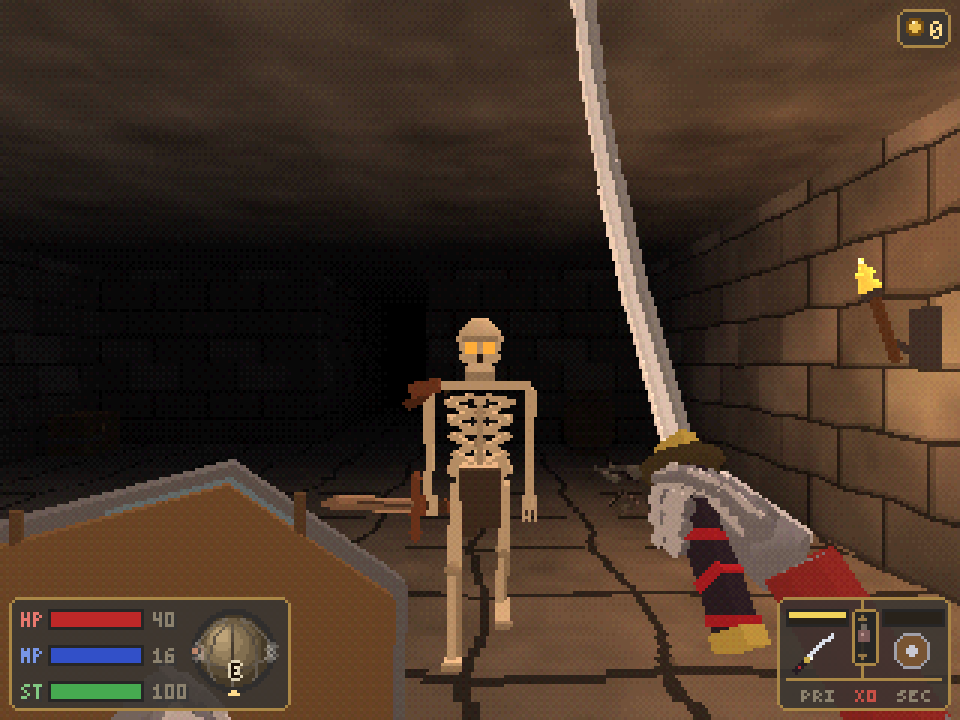
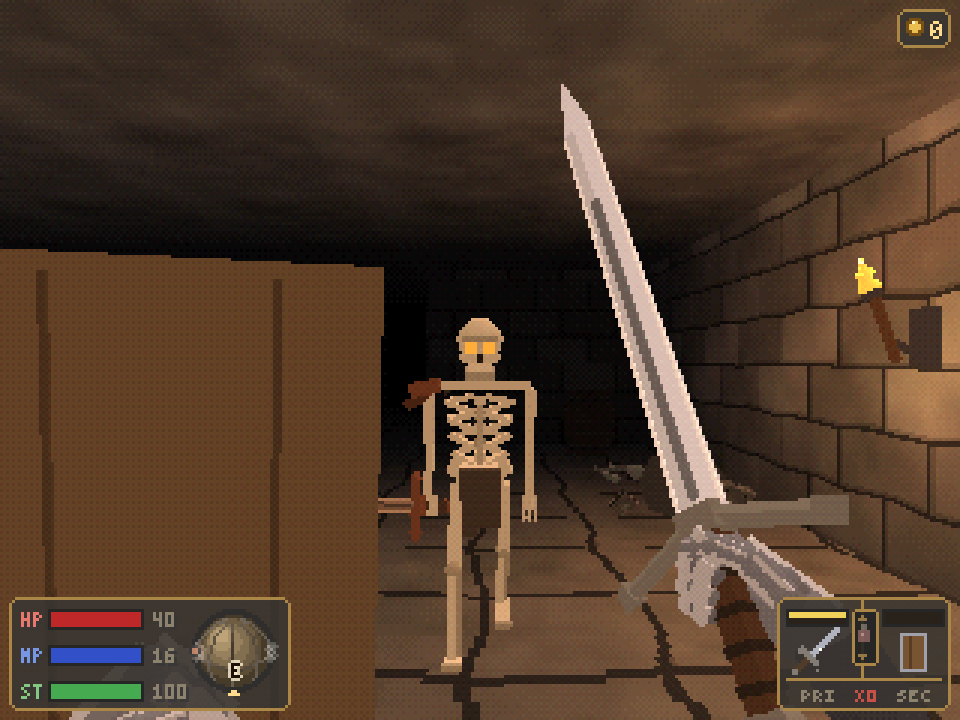
Retake every README screenshot with varied weapons and spells
Each shot now carries its own gear (`--level 10 --equip ...` in its README
command): a different weapon in most, with a readied spell or a shield
beside the one-handed ones. The Sexton's shot waits for its door to open
before walking in, as the old one no longer reached its yard; the
Belongings, sword-and-shield and Sexton alt texts follow the new shots.

diff --git a/README.md b/README.md
@@ -51,7 +51,7 @@ FromSoftware, Inc.
   </tr>
   <tr>
     <td><img src="docs/screenshots/silk.png" alt="The silk sealing the chapel's far door burning away from the bottom up, charred patches glowing at the edges, flames licking up its face"></td>
-    <td><img src="docs/screenshots/sexton.png" alt="The Ashen Sexton in its walled yard, breathing a cloud of choking grave dust at you, its health bar above"></td>
+    <td><img src="docs/screenshots/sexton.png" alt="The Ashen Sexton in its walled yard, its spade raised as grave ash bursts from the ground round it, its health bar above"></td>
   </tr>
   <tr>
     <td align="center"><sub>Flame Bolt burning the silk off the chapel door</sub></td>
@@ -67,7 +67,7 @@ FromSoftware, Inc.
   </tr>
   <tr>
     <td><img src="docs/screenshots/warden.png" alt="The Ashen Warden boss in its hall"></td>
-    <td><img src="docs/screenshots/inventory.png" alt="The Belongings screen: a katana in the Primary slot, a round shield in Secondary, worn armor, the Equipped panel and a rotating preview"></td>
+    <td><img src="docs/screenshots/inventory.png" alt="The Belongings screen: the Moonless Tachi in the Primary slot, a kite shield in Secondary, a lamellar vest and leather gloves, the Equipped panel and the stats"></td>
   </tr>
   <tr>
     <td align="center"><sub>The Ashen Warden</sub></td>
@@ -106,7 +106,7 @@ FromSoftware, Inc.
     <td align="center"><sub>A bonfire in the Root Caverns, under the bog</sub></td>
   </tr>
   <tr>
-    <td><img src="docs/screenshots/combat.png" alt="A katana in one hand and a round shield in the other, facing a bone walker"></td>
+    <td><img src="docs/screenshots/combat.png" alt="A bastard sword in iron gauntlets, a tower shield on the other arm, facing a bone walker"></td>
     <td><img src="docs/screenshots/corvane.png" alt="Corvane's shop of curved blades"></td>
   </tr>
   <tr>
@@ -463,46 +463,46 @@ uv run ashen-vault --map sunken_keep --at 15,21,180 --smoke 100 --script "wait:1
 
 The README screenshots were taken this way, each with `ASHEN_VAULT_SAVE` pointing at a fresh throwaway
 file. The title is `uv run ashen-vault --smoke 60 --shot title.png` and the village
-`uv run ashen-vault --map harrowmere --at=22,30,-60 --smoke 40 --shot village.png`; Odrin is
-`uv run ashen-vault --map harrowmere --at=28,25,-90 --level 10 --equip primary=mace --smoke 40 --script "wait:0.2 interact" --shot dialogue.png`,
+`uv run ashen-vault --map harrowmere --at=22,30,-60 --level 10 --equip primary=claymore --smoke 40 --shot village.png`; Odrin is
+`uv run ashen-vault --map harrowmere --at=28,25,-90 --level 10 --equip primary=mace,secondary=spell:mend --smoke 40 --script "wait:0.2 interact" --shot dialogue.png`,
 Belongings is
-`uv run ashen-vault --map harrowmere --at=20,44,-90 --level 6 --equip primary=katana,secondary=round_shield,body=brigandine,hands=chain_mitts --smoke 40 --script "wait:0.2 menu" --shot inventory.png`,
+`uv run ashen-vault --map harrowmere --at=20,44,-90 --level 10 --equip primary=moonless_tachi,secondary=kite_shield,body=lamellar_vest,hands=leather_gloves --smoke 40 --script "wait:0.2 menu" --shot inventory.png`,
 Corvane's shop is
 `uv run ashen-vault --map harrowmere --at=6,26,180 --level 10 --equip primary=flamberge --smoke 220 --script "forward:2 interact wait:0.3 confirm wait:0.3 confirm wait:0.3 confirm wait:0.3 confirm" --shot corvane.png`,
-the cathedral is `uv run ashen-vault --map harrowmere --at=18,6,180 --smoke 40 --shot cathedral.png`,
-the cemetery is `uv run ashen-vault --map ashen_cemetery --smoke 40 --shot cemetery.png`,
-the Mourner is `uv run ashen-vault --map ashen_cemetery --at=11,22,-90 --smoke 40 --shot mourner.png`,
+the cathedral is `uv run ashen-vault --map harrowmere --at=18,6,180 --level 10 --equip primary=moonless_tachi,secondary=spell:thunder --smoke 40 --shot cathedral.png`,
+the cemetery is `uv run ashen-vault --map ashen_cemetery --level 10 --equip primary=hatchet,secondary=spell:lumen --smoke 40 --shot cemetery.png`,
+the Mourner is `uv run ashen-vault --map ashen_cemetery --at=11,22,-90 --level 10 --equip primary=oak_cudgel,secondary=spell:venom --smoke 40 --shot mourner.png`,
 the burning silk is
-`uv run ashen-vault --map ashen_cemetery --at=12,18,-135 --smoke 90 --script "wait:0.3 cast wait:0.9" --shot silk.png`,
+`uv run ashen-vault --map ashen_cemetery --at=12,18,-135 --level 10 --equip primary=leather_whip,secondary=spell:flame --smoke 90 --script "wait:0.3 cast wait:0.9" --shot silk.png`,
 the Sexton is
-`uv run ashen-vault --map ashen_cemetery --at=10,11,-90 --smoke 222 --script "wait:0.1 interact wait:1 forward:0.6" --shot sexton.png`
-(its move is random, so take it again until it breathes its dust),
-the forge is `uv run ashen-vault --map harrowmere --at=8,18,180 --level 10 --equip primary=bastard_sword --smoke 40 --shot forge.png`,
-the Warden is `uv run ashen-vault --map sunken_keep --at=15,7,-90 --smoke 40 --shot warden.png`,
-the hollow's vine path is `uv run ashen-vault --map verdant_hollow --at=9,12,90 --smoke 40 --shot verdant_hollow.png`,
-the Bark Husk is `uv run ashen-vault --map verdant_hollow --at=26,17,-90 --smoke 60 --shot bark_husk.png`,
-the log rack is `uv run ashen-vault --map verdant_hollow --at=51,6,180 --smoke 40 --shot log_rack.png`,
+`uv run ashen-vault --map ashen_cemetery --at=10,11,-90 --level 10 --equip primary=bearded_axe,secondary=spell:ward --smoke 603 --script "wait:0.1 interact wait:2.5 forward:1.0" --shot sexton.png`
+(its move is random, so take it again until its ash bursts round it),
+the forge is `uv run ashen-vault --map harrowmere --at=8,18,180 --level 10 --equip primary=bastard_sword,secondary=spell:ward --smoke 40 --shot forge.png`,
+the Warden is `uv run ashen-vault --map sunken_keep --at=15,7,-90 --level 10 --equip primary=zweihander --smoke 40 --shot warden.png`,
+the hollow's vine path is `uv run ashen-vault --map verdant_hollow --at=9,12,90 --level 10 --equip primary=thornlash,secondary=spell:veil --smoke 40 --shot verdant_hollow.png`,
+the Bark Husk is `uv run ashen-vault --map verdant_hollow --at=26,17,-90 --level 10 --equip primary=butcher_cleaver,secondary=spell:pyre --smoke 60 --shot bark_husk.png`,
+the log rack is `uv run ashen-vault --map verdant_hollow --at=51,6,180 --level 10 --equip primary=spiked_club,secondary=buckler --smoke 40 --shot log_rack.png`,
 the flame bolt shot is
-`uv run ashen-vault --map sunken_keep --at 15,22,0 --smoke 40 --script "wait:0.3 cast" --shot flame_bolt.png`,
-the Loom Mother is `uv run ashen-vault --map verdant_hollow --at=15,7,-90 --smoke 40 --shot loom_mother.png`,
+`uv run ashen-vault --map sunken_keep --at 15,22,0 --level 10 --equip primary=ashblade,secondary=spell:flame --smoke 40 --script "wait:0.3 cast" --shot flame_bolt.png`,
+the Loom Mother is `uv run ashen-vault --map verdant_hollow --at=15,7,-90 --level 10 --equip primary=nodachi --smoke 40 --shot loom_mother.png`,
 the lift ride is
-`uv run ashen-vault --map sunken_keep --at 4,24,90 --smoke 680 --script "forward:0.15 wait:5 forward:0.6 wait:7" --shot undercroft_lift.png`,
-the Butcher is `uv run ashen-vault --map sunken_keep --at=27,7,-90 --smoke 20 --shot gallery.png`,
-the jungle trail is `uv run ashen-vault --map harrowmere --at=56,34,-90 --smoke 40 --shot jungle_trail.png`,
+`uv run ashen-vault --map sunken_keep --at 4,24,90 --level 10 --equip primary=slagbreaker --smoke 680 --script "forward:0.15 wait:5 forward:0.6 wait:7" --shot undercroft_lift.png`,
+the Butcher is `uv run ashen-vault --map sunken_keep --at=27,7,-90 --level 10 --equip primary=claymore --smoke 20 --shot gallery.png`,
+the jungle trail is `uv run ashen-vault --map harrowmere --at=56,34,-90 --level 10 --equip primary=hatchet,secondary=spell:motes --smoke 40 --shot jungle_trail.png`,
 Mossmouth is
-`uv run ashen-vault --map verdant_hollow --at=15,31,180 --equip left=spell:pyre --script "wait:0.3 cast wait:3" --smoke 120 --shot mossmouth.png`,
-the canopy is `uv run ashen-vault --map verdant_hollow --at=31,3,180 --script "look_down:0.12" --smoke 40 --shot canopy_walk.png`,
-the Root Caverns are `uv run ashen-vault --map verdant_hollow --at=6,38,-100 --smoke 25 --shot root_caverns.png`,
-the long bridge is `uv run ashen-vault --map cinderhold --at=29,52,-90 --script "look_up:0.15" --smoke 60 --shot cinderhold_bridge.png`,
-the postern ledge is `uv run ashen-vault --map cinderhold --at=28,30,180 --smoke 190 --shot postern_ledge.png`,
-the foundry is `uv run ashen-vault --map cinderhold --at=18,17,180 --smoke 40 --shot foundry.png`,
+`uv run ashen-vault --map verdant_hollow --at=15,31,180 --script "wait:0.3 cast wait:3" --level 10 --equip primary=spiked_club,secondary=spell:pyre --smoke 120 --shot mossmouth.png`,
+the canopy is `uv run ashen-vault --map verdant_hollow --at=31,3,180 --script "look_down:0.12" --level 10 --equip primary=katana,secondary=spell:motes --smoke 40 --shot canopy_walk.png`,
+the Root Caverns are `uv run ashen-vault --map verdant_hollow --at=6,38,-100 --level 10 --equip primary=great_iron_hammer --smoke 25 --shot root_caverns.png`,
+the long bridge is `uv run ashen-vault --map cinderhold --at=29,52,-90 --script "look_up:0.15" --level 10 --equip primary=ashblade,secondary=spell:thunder --smoke 60 --shot cinderhold_bridge.png`,
+the postern ledge is `uv run ashen-vault --map cinderhold --at=28,30,180 --level 10 --equip primary=katana,secondary=round_shield --smoke 190 --shot postern_ledge.png`,
+the foundry is `uv run ashen-vault --map cinderhold --at=18,17,180 --level 10 --equip primary=war_hammer --smoke 40 --shot foundry.png`,
 the gargoyles are
-`uv run ashen-vault --map cinder_keep --at=9,6,180 --level 10 --equip right=stormbrand --smoke 200 --script "wait:1 attack wait:1" --shot gargoyles.png`,
-the keep's hall is `uv run ashen-vault --map cinder_keep --at=17,18,180 --smoke 40 --shot keep_hall.png`,
+`uv run ashen-vault --map cinder_keep --at=9,6,180 --level 10 --equip primary=stormbrand,secondary=spell:ward --smoke 200 --script "wait:1 attack wait:1" --shot gargoyles.png`,
+the keep's hall is `uv run ashen-vault --map cinder_keep --at=17,18,180 --level 10 --equip primary=flamberge --smoke 40 --shot keep_hall.png`,
 the scroll is
-`uv run ashen-vault --map cinderhold --at=4,15,-90 --smoke 280 --script "interact wait:1.5 menu wait:0.2 tab_next wait:0.2 tab_next wait:0.2 tab_next wait:0.2 down wait:3" --shot thunder_scroll.png`,
-and the katana and shield shot is
-`uv run ashen-vault --map sunken_keep --at 15,22,0 --level 8 --equip primary=katana,secondary=round_shield,body=brigandine,hands=iron_gauntlets --smoke 100 --shot combat.png`.
+`uv run ashen-vault --map cinderhold --at=4,15,-90 --level 10 --equip primary=thornlash,secondary=buckler --smoke 280 --script "interact wait:1.5 menu wait:0.2 tab_next wait:0.2 tab_next wait:0.2 tab_next wait:0.2 down wait:3" --shot thunder_scroll.png`,
+and the sword and shield shot is
+`uv run ashen-vault --map sunken_keep --at 15,22,0 --level 10 --equip primary=bastard_sword,secondary=tower_shield,body=blackened_plate,hands=iron_gauntlets --smoke 100 --shot combat.png`.
 
 ## Contributing
 
